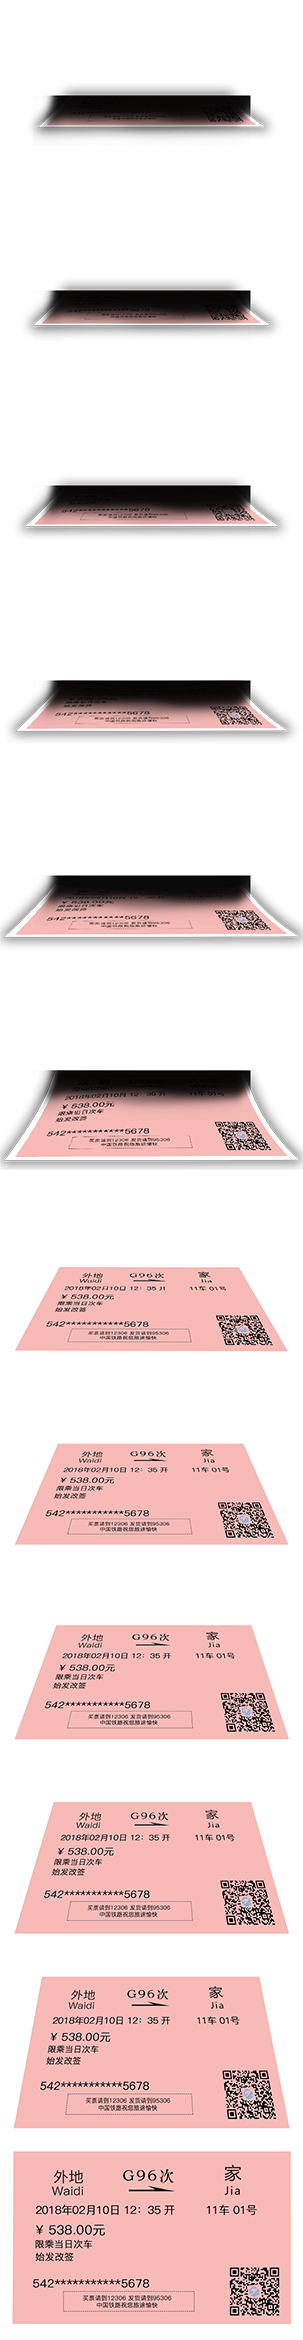
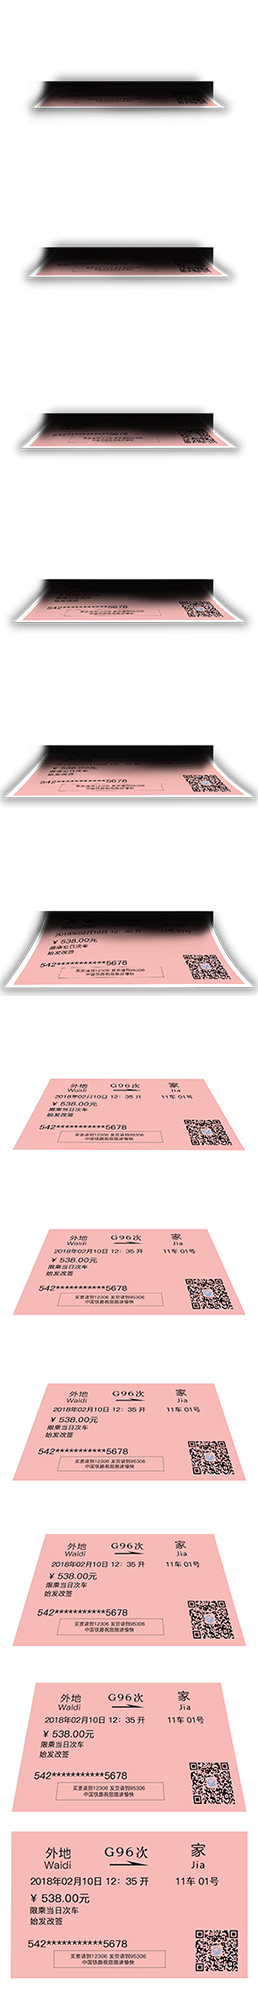
v1.0

diff --git a/dist/spring.js b/dist/spring.js
@@ -1,1 +1,1 @@
-!function(e){function t(r){if(n[r])return n[r].exports;var i=n[r]={i:r,l:!1,exports:{}};return e[r].call(i.exports,i,i.exports,t),i.l=!0,i.exports}var n={};t.m=e,t.c=n,t.d=function(e,n,r){t.o(e,n)||Object.defineProperty(e,n,{configurable:!1,enumerable:!0,get:r})},t.n=function(e){var n=e&&e.__esModule?function(){return e.default}:function(){return e};return t.d(n,"a",n),n},t.o=function(e,t){return Object.prototype.hasOwnProperty.call(e,t)},t.p="",t(t.s=2)}([function(e,t){function n(e,t){var n=e[1]||"",i=e[3];if(!i)return n;if(t&&"function"==typeof btoa){var o=r(i);return[n].concat(i.sources.map(function(e){return"/*# sourceURL="+i.sourceRoot+e+" */"})).concat([o]).join("\n")}return[n].join("\n")}function r(e){return"/*# sourceMappingURL=data:application/json;charset=utf-8;base64,"+btoa(unescape(encodeURIComponent(JSON.stringify(e))))+" */"}e.exports=function(e){var t=[];return t.toString=function(){return this.map(function(t){var r=n(t,e);return t[2]?"@media "+t[2]+"{"+r+"}":r}).join("")},t.i=function(e,n){"string"==typeof e&&(e=[[null,e,""]]);for(var r={},i=0;i<this.length;i++){var o=this[i][0];"number"==typeof o&&(r[o]=!0)}for(i=0;i<e.length;i++){var a=e[i];"number"==typeof a[0]&&r[a[0]]||(n&&!a[2]?a[2]=n:n&&(a[2]="("+a[2]+") and ("+n+")"),t.push(a))}},t}},function(e,t,n){function r(e,t){for(var n=0;n<e.length;n++){var r=e[n],i=h[r.id];if(i){i.refs++;for(var o=0;o<i.parts.length;o++)i.parts[o](r.parts[o]);for(;o<r.parts.length;o++)i.parts.push(d(r.parts[o],t))}else{for(var a=[],o=0;o<r.parts.length;o++)a.push(d(r.parts[o],t));h[r.id]={id:r.id,refs:1,parts:a}}}}function i(e,t){for(var n=[],r={},i=0;i<e.length;i++){var o=e[i],a=t.base?o[0]+t.base:o[0],s=o[1],c=o[2],l=o[3],d={css:s,media:c,sourceMap:l};r[a]?r[a].parts.push(d):n.push(r[a]={id:a,parts:[d]})}return n}function o(e,t){var n=g(e.insertInto);if(!n)throw new Error("Couldn't find a style target. This probably means that the value for the 'insertInto' parameter is invalid.");var r=x[x.length-1];if("top"===e.insertAt)r?r.nextSibling?n.insertBefore(t,r.nextSibling):n.appendChild(t):n.insertBefore(t,n.firstChild),x.push(t);else{if("bottom"!==e.insertAt)throw new Error("Invalid value for parameter 'insertAt'. Must be 'top' or 'bottom'.");n.appendChild(t)}}function a(e){if(null===e.parentNode)return!1;e.parentNode.removeChild(e);var t=x.indexOf(e);t>=0&&x.splice(t,1)}function s(e){var t=document.createElement("style");return e.attrs.type="text/css",l(t,e.attrs),o(e,t),t}function c(e){var t=document.createElement("link");return e.attrs.type="text/css",e.attrs.rel="stylesheet",l(t,e.attrs),o(e,t),t}function l(e,t){Object.keys(t).forEach(function(n){e.setAttribute(n,t[n])})}function d(e,t){var n,r,i,o;if(t.transform&&e.css){if(!(o=t.transform(e.css)))return function(){};e.css=o}if(t.singleton){var l=v++;n=m||(m=s(t)),r=u.bind(null,n,l,!1),i=u.bind(null,n,l,!0)}else e.sourceMap&&"function"==typeof URL&&"function"==typeof URL.createObjectURL&&"function"==typeof URL.revokeObjectURL&&"function"==typeof Blob&&"function"==typeof btoa?(n=c(t),r=p.bind(null,n,t),i=function(){a(n),n.href&&URL.revokeObjectURL(n.href)}):(n=s(t),r=f.bind(null,n),i=function(){a(n)});return r(e),function(t){if(t){if(t.css===e.css&&t.media===e.media&&t.sourceMap===e.sourceMap)return;r(e=t)}else i()}}function u(e,t,n,r){var i=n?"":r.css;if(e.styleSheet)e.styleSheet.cssText=w(t,i);else{var o=document.createTextNode(i),a=e.childNodes;a[t]&&e.removeChild(a[t]),a.length?e.insertBefore(o,a[t]):e.appendChild(o)}}function f(e,t){var n=t.css,r=t.media;if(r&&e.setAttribute("media",r),e.styleSheet)e.styleSheet.cssText=n;else{for(;e.firstChild;)e.removeChild(e.firstChild);e.appendChild(document.createTextNode(n))}}function p(e,t,n){var r=n.css,i=n.sourceMap,o=void 0===t.convertToAbsoluteUrls&&i;(t.convertToAbsoluteUrls||o)&&(r=y(r)),i&&(r+="\n/*# sourceMappingURL=data:application/json;base64,"+btoa(unescape(encodeURIComponent(JSON.stringify(i))))+" */");var a=new Blob([r],{type:"text/css"}),s=e.href;e.href=URL.createObjectURL(a),s&&URL.revokeObjectURL(s)}var h={},b=function(e){var t;return function(){return void 0===t&&(t=e.apply(this,arguments)),t}}(function(){return window&&document&&document.all&&!window.atob}),g=function(e){var t={};return function(n){return void 0===t[n]&&(t[n]=e.call(this,n)),t[n]}}(function(e){return document.querySelector(e)}),m=null,v=0,x=[],y=n(5);e.exports=function(e,t){if("undefined"!=typeof DEBUG&&DEBUG&&"object"!=typeof document)throw new Error("The style-loader cannot be used in a non-browser environment");t=t||{},t.attrs="object"==typeof t.attrs?t.attrs:{},t.singleton||(t.singleton=b()),t.insertInto||(t.insertInto="head"),t.insertAt||(t.insertAt="bottom");var n=i(e,t);return r(n,t),function(e){for(var o=[],a=0;a<n.length;a++){var s=n[a],c=h[s.id];c.refs--,o.push(c)}if(e){r(i(e,t),t)}for(var a=0;a<o.length;a++){var c=o[a];if(0===c.refs){for(var l=0;l<c.parts.length;l++)c.parts[l]();delete h[c.id]}}}};var w=function(){var e=[];return function(t,n){return e[t]=n,e.filter(Boolean).join("\n")}}()},function(e,t,n){n(3),n(6),$("#bgAudioBtn").on("touchstart",function(){var e=$(this);e.toggleClass("on");var t=document.getElementById("bgm");e.hasClass("on")?t.paused&&t.play():t.pause()}),$("#ticketBtn a").on("touchstart",function(){var e=new createjs.Stage(document.getElementById("scene1canvas")),t=new createjs.SpriteSheet({framerate:30,images:["./src/img/spring/tickets.png"],frames:{regX:0,height:185,count:12,regY:0,width:303},animations:{run:[0,11,1.5]}});t.on("complete",function(e){console.log("Complete",e)}),t.on("error",function(e){console.log("Error",e)});var n=new createjs.Sprite(t,"run");n.x=0,n.y=22,e.addChild(n),createjs.Ticker.timingMode=createjs.Ticker.RAF,createjs.Ticker.addEventListener("tick",e)});var r=function(e){function t(e,t){return Math.floor(Math.random()*(t-e)+e)}function n(e){return e*Math.PI/180}function r(){setTimeout(function(){if(c.length<200)for(var e=0;e<20;e++)c.push({left:t(0,800),top:0,deg:t(-10,10),scale:t(2,10)});r()},200*Math.random()+500)}for(var i=document.getElementById(e),o=i.getContext("2d"),a=window.innerWidth,s=window.innerHeight,c=[],l=0;l<100;l++)c.push({left:t(0,800),top:t(0,600),deg:t(-10,10),scale:t(2,10)});setInterval(function(){o.clearRect(0,0,i.width,i.height),o.save();for(var e=0;e<c.length;e++){var t=.5*c[e].scale;if(c[e].left=c[e].left+Math.tan(n(c[e].deg))*t,c[e].top=c[e].top+t,c[e].left<0||c[e].left>a||c[e].top>s)c.splice(e--,1);else{var r=c[e].scale,l=o.createRadialGradient(c[e].left,c[e].top,r/4,c[e].left,c[e].top,r);l.addColorStop(0,"rgba(255,255,255,1)"),l.addColorStop(1,"rgba(255,255,255,0.1)"),o.fillStyle=l,o.beginPath(),o.arc(c[e].left,c[e].top,r,0,2*Math.PI),o.fill()}}o.restore()},50),r()};window.app=window.app||{},app.initScene1=function(){r("snowCanvas"),$("#snowCanvas").css("background-image","url(./src/img/spring/scene1.jpg)"),$("#scene1canvas").css("background-image","url(./src/img/spring/scene1Ticket.png)")}},function(e,t,n){var r=n(4);"string"==typeof r&&(r=[[e.i,r,""]]);var i={minimize:!0};i.transform=void 0;n(1)(r,i);r.locals&&(e.exports=r.locals)},function(e,t,n){t=e.exports=n(0)(!1),t.push([e.i,'*{-webkit-box-sizing:border-box;-moz-box-sizing:border-box;box-sizing:border-box}html{-webkit-tap-highlight-color:transparent;-ms-text-size-adjust:100%;-webkit-text-size-adjust:100%;height:100%}::-webkit-input-placeholder{font-family:-apple-system-font,Helvetica Neue,sans-serif}a,abbr,acronym,address,applet,article,aside,audio,b,big,blockquote,body,canvas,caption,center,cite,code,dd,del,details,dfn,div,dl,dt,em,embed,fieldset,figcaption,figure,footer,form,h1,h2,h3,h4,h5,h6,header,hgroup,html,i,iframe,img,ins,kbd,label,legend,li,mark,menu,nav,object,ol,output,p,pre,q,ruby,s,samp,section,small,span,strike,strong,sub,summary,sup,table,tbody,td,tfoot,th,thead,time,tr,tt,u,ul,var,video{margin:0;padding:0;border:none;font-size:100%}body{height:100%;line-height:1.6;overflow-x:hidden;max-width:768px;font-family:-apple-system-font,Helvetica Neue,sans-serif}@media screen and (min-width:768px){body{margin:0 auto}}body iframe{display:none}article,aside,details,figcaption,figure,footer,header,hgroup,menu,nav,section{display:block}audio,canvas,video{display:inline-block;*display:inline;*zoom:1}a{text-decoration:none;cursor:pointer;-webkit-touch-callout:none}ol,ul{list-style:none}img{border:0;vertical-align:middle;max-width:100%}h1,h2,h3,h4,h5,h6{font-weight:300}table{border-collapse:collapse;border-spacing:0}input,textarea{-webkit-appearance:none;border-radius:0;border:1px solid #dcdcdc}input:focus,textarea:focus{outline:none}p{word-wrap:break-word;word-break:break-all}.clearfix:after{clear:both;content:"";display:block;height:0;visibility:hidden}.clearfix{*zoom:1}.fr{float:right}.fl{float:left}.hidden{visibility:hidden}.hide{display:none}.img-circle{border-radius:50%}.ellipsis{overflow:hidden;white-space:nowrap;text-overflow:ellipsis}.btn{display:inline-block;vertical-align:middle;text-align:center}',""])},function(e,t){e.exports=function(e){var t="undefined"!=typeof window&&window.location;if(!t)throw new Error("fixUrls requires window.location");if(!e||"string"!=typeof e)return e;var n=t.protocol+"//"+t.host,r=n+t.pathname.replace(/\/[^\/]*$/,"/");return e.replace(/url\s*\(((?:[^)(]|\((?:[^)(]+|\([^)(]*\))*\))*)\)/gi,function(e,t){var i=t.trim().replace(/^"(.*)"$/,function(e,t){return t}).replace(/^'(.*)'$/,function(e,t){return t});if(/^(#|data:|http:\/\/|https:\/\/|file:\/\/\/)/i.test(i))return e;var o;return o=0===i.indexOf("//")?i:0===i.indexOf("/")?n+i:r+i.replace(/^\.\//,""),"url("+JSON.stringify(o)+")"})}},function(e,t,n){var r=n(7);"string"==typeof r&&(r=[[e.i,r,""]]);var i={minimize:!0};i.transform=void 0;n(1)(r,i);r.locals&&(e.exports=r.locals)},function(e,t,n){var r=n(8);t=e.exports=n(0)(!1),t.push([e.i,".scene{-webkit-transition:all .45s linear;transition:all .45s linear;position:absolute;top:0;left:0;bottom:0;right:0;overflow:hidden;-webkit-transform:translate(100%);transform:translate(100%)}.scene.cur{-webkit-transform:translate(0);transform:translate(0)}.scene.isHide{-webkit-transform:translate(-100%);transform:translate(-100%)}.scene1 #scene1canvas,.scene1 #snowCanvas{background-repeat:no-repeat;background-position:0 100%;background-size:100%}.scene1 .content{position:absolute;z-index:1;top:50%;left:50%;-webkit-transform:translate(-50%,-50%);transform:translate(-50%,-50%);text-align:center}#scene1canvas{margin-bottom:30px}#ticketBtn{position:relative;display:inline-block}#ticketBtn a{line-height:44px;background:#085a94;color:#fff;border-radius:50%;font-size:18px;border:6px solid #5896e5;position:relative;z-index:1;margin:0 auto}#ticketBtn a,.circles{width:58px;height:58px}.circles{position:absolute;animation:a1 1.5s linear infinite;-webkit-animation:a1 1.5s linear infinite}.circles>div{border-radius:50%;width:58px;height:58px;background:#5896e5;padding:2px}.circles>div>div{border-radius:50%;width:54px;height:54px;background:#fff;padding:2px}.circles>div>div>div{width:50px;height:50px;background:#5896e5;padding:2px;border-radius:50%}.circles>div>div>div>div{width:46px;height:46px;background:#fff;padding:2px;border-radius:50%}.circles>div>div>div>div>div{width:42px;height:42px;background:#5896e5;border-radius:50%}@keyframes a1{0%{transform:scale(1);opacity:1}to{transform:scale(1.5);opacity:0}}@-webkit-keyframes a1{0%{transform:scale(1);opacity:1}to{transform:scale(1.5);opacity:0}}.scene2{background:url("+r(n(12))+") no-repeat left bottom 100%;background-size:100%}",""])},function(e,t){e.exports=function(e){return"string"!=typeof e?e:(/^['"].*['"]$/.test(e)&&(e=e.slice(1,-1)),/["'() \t\n]/.test(e)?'"'+e.replace(/"/g,'\\"').replace(/\n/g,"\\n")+'"':e)}},,,,function(e,t){e.exports="/h5/dist/img/scene2.jpg"}]);
+!function(e){function t(r){if(n[r])return n[r].exports;var i=n[r]={i:r,l:!1,exports:{}};return e[r].call(i.exports,i,i.exports,t),i.l=!0,i.exports}var n={};t.m=e,t.c=n,t.d=function(e,n,r){t.o(e,n)||Object.defineProperty(e,n,{configurable:!1,enumerable:!0,get:r})},t.n=function(e){var n=e&&e.__esModule?function(){return e.default}:function(){return e};return t.d(n,"a",n),n},t.o=function(e,t){return Object.prototype.hasOwnProperty.call(e,t)},t.p="",t(t.s=2)}([function(e,t){function n(e,t){var n=e[1]||"",i=e[3];if(!i)return n;if(t&&"function"==typeof btoa){var o=r(i);return[n].concat(i.sources.map(function(e){return"/*# sourceURL="+i.sourceRoot+e+" */"})).concat([o]).join("\n")}return[n].join("\n")}function r(e){return"/*# sourceMappingURL=data:application/json;charset=utf-8;base64,"+btoa(unescape(encodeURIComponent(JSON.stringify(e))))+" */"}e.exports=function(e){var t=[];return t.toString=function(){return this.map(function(t){var r=n(t,e);return t[2]?"@media "+t[2]+"{"+r+"}":r}).join("")},t.i=function(e,n){"string"==typeof e&&(e=[[null,e,""]]);for(var r={},i=0;i<this.length;i++){var o=this[i][0];"number"==typeof o&&(r[o]=!0)}for(i=0;i<e.length;i++){var a=e[i];"number"==typeof a[0]&&r[a[0]]||(n&&!a[2]?a[2]=n:n&&(a[2]="("+a[2]+") and ("+n+")"),t.push(a))}},t}},function(e,t,n){function r(e,t){for(var n=0;n<e.length;n++){var r=e[n],i=h[r.id];if(i){i.refs++;for(var o=0;o<i.parts.length;o++)i.parts[o](r.parts[o]);for(;o<r.parts.length;o++)i.parts.push(d(r.parts[o],t))}else{for(var a=[],o=0;o<r.parts.length;o++)a.push(d(r.parts[o],t));h[r.id]={id:r.id,refs:1,parts:a}}}}function i(e,t){for(var n=[],r={},i=0;i<e.length;i++){var o=e[i],a=t.base?o[0]+t.base:o[0],s=o[1],c=o[2],l=o[3],d={css:s,media:c,sourceMap:l};r[a]?r[a].parts.push(d):n.push(r[a]={id:a,parts:[d]})}return n}function o(e,t){var n=g(e.insertInto);if(!n)throw new Error("Couldn't find a style target. This probably means that the value for the 'insertInto' parameter is invalid.");var r=x[x.length-1];if("top"===e.insertAt)r?r.nextSibling?n.insertBefore(t,r.nextSibling):n.appendChild(t):n.insertBefore(t,n.firstChild),x.push(t);else{if("bottom"!==e.insertAt)throw new Error("Invalid value for parameter 'insertAt'. Must be 'top' or 'bottom'.");n.appendChild(t)}}function a(e){if(null===e.parentNode)return!1;e.parentNode.removeChild(e);var t=x.indexOf(e);t>=0&&x.splice(t,1)}function s(e){var t=document.createElement("style");return e.attrs.type="text/css",l(t,e.attrs),o(e,t),t}function c(e){var t=document.createElement("link");return e.attrs.type="text/css",e.attrs.rel="stylesheet",l(t,e.attrs),o(e,t),t}function l(e,t){Object.keys(t).forEach(function(n){e.setAttribute(n,t[n])})}function d(e,t){var n,r,i,o;if(t.transform&&e.css){if(!(o=t.transform(e.css)))return function(){};e.css=o}if(t.singleton){var l=v++;n=m||(m=s(t)),r=u.bind(null,n,l,!1),i=u.bind(null,n,l,!0)}else e.sourceMap&&"function"==typeof URL&&"function"==typeof URL.createObjectURL&&"function"==typeof URL.revokeObjectURL&&"function"==typeof Blob&&"function"==typeof btoa?(n=c(t),r=p.bind(null,n,t),i=function(){a(n),n.href&&URL.revokeObjectURL(n.href)}):(n=s(t),r=f.bind(null,n),i=function(){a(n)});return r(e),function(t){if(t){if(t.css===e.css&&t.media===e.media&&t.sourceMap===e.sourceMap)return;r(e=t)}else i()}}function u(e,t,n,r){var i=n?"":r.css;if(e.styleSheet)e.styleSheet.cssText=w(t,i);else{var o=document.createTextNode(i),a=e.childNodes;a[t]&&e.removeChild(a[t]),a.length?e.insertBefore(o,a[t]):e.appendChild(o)}}function f(e,t){var n=t.css,r=t.media;if(r&&e.setAttribute("media",r),e.styleSheet)e.styleSheet.cssText=n;else{for(;e.firstChild;)e.removeChild(e.firstChild);e.appendChild(document.createTextNode(n))}}function p(e,t,n){var r=n.css,i=n.sourceMap,o=void 0===t.convertToAbsoluteUrls&&i;(t.convertToAbsoluteUrls||o)&&(r=y(r)),i&&(r+="\n/*# sourceMappingURL=data:application/json;base64,"+btoa(unescape(encodeURIComponent(JSON.stringify(i))))+" */");var a=new Blob([r],{type:"text/css"}),s=e.href;e.href=URL.createObjectURL(a),s&&URL.revokeObjectURL(s)}var h={},b=function(e){var t;return function(){return void 0===t&&(t=e.apply(this,arguments)),t}}(function(){return window&&document&&document.all&&!window.atob}),g=function(e){var t={};return function(n){return void 0===t[n]&&(t[n]=e.call(this,n)),t[n]}}(function(e){return document.querySelector(e)}),m=null,v=0,x=[],y=n(5);e.exports=function(e,t){if("undefined"!=typeof DEBUG&&DEBUG&&"object"!=typeof document)throw new Error("The style-loader cannot be used in a non-browser environment");t=t||{},t.attrs="object"==typeof t.attrs?t.attrs:{},t.singleton||(t.singleton=b()),t.insertInto||(t.insertInto="head"),t.insertAt||(t.insertAt="bottom");var n=i(e,t);return r(n,t),function(e){for(var o=[],a=0;a<n.length;a++){var s=n[a],c=h[s.id];c.refs--,o.push(c)}if(e){r(i(e,t),t)}for(var a=0;a<o.length;a++){var c=o[a];if(0===c.refs){for(var l=0;l<c.parts.length;l++)c.parts[l]();delete h[c.id]}}}};var w=function(){var e=[];return function(t,n){return e[t]=n,e.filter(Boolean).join("\n")}}()},function(e,t,n){n(3),n(6),$("#bgAudioBtn").on("touchstart",function(){var e=$(this);e.toggleClass("on");var t=document.getElementById("bgm");e.hasClass("on")?t.paused&&t.play():t.pause()}),$("#ticketBtn a").on("touchstart",function(){}),getTicket=function(){var e=document.getElementById("scene1canvas"),t=new createjs.Stage(e),n=new createjs.SpriteSheet({framerate:9,images:[loader.getResult("tickets")],frames:{regX:129,height:166,count:12,regY:0,width:258},animations:{run:[0,11]}});n.on("complete",function(e){console.log("Complete",e)}),n.on("error",function(e){});var r=new createjs.Sprite(n,"run");r.x=t.canvas.width/2,r.y=160,t.addChild(r),createjs.Ticker.timingMode=createjs.Ticker.RAF_SYNCHED,createjs.Ticker.addEventListener("tick",t)};var r=function(e){function t(e,t){return Math.floor(Math.random()*(t-e)+e)}function n(e){return e*Math.PI/180}function r(){setTimeout(function(){if(c.length<200)for(var e=0;e<20;e++)c.push({left:t(0,800),top:0,deg:t(-10,10),scale:t(2,10)});r()},200*Math.random()+500)}for(var i=document.getElementById(e),o=i.getContext("2d"),a=window.innerWidth,s=window.innerHeight,c=[],l=0;l<100;l++)c.push({left:t(0,800),top:t(0,600),deg:t(-10,10),scale:t(2,10)});setInterval(function(){o.clearRect(0,0,i.width,i.height),o.save();for(var e=0;e<c.length;e++){var t=.5*c[e].scale;if(c[e].left=c[e].left+Math.tan(n(c[e].deg))*t,c[e].top=c[e].top+t,c[e].left<0||c[e].left>a||c[e].top>s)c.splice(e--,1);else{var r=c[e].scale,l=o.createRadialGradient(c[e].left,c[e].top,r/4,c[e].left,c[e].top,r);l.addColorStop(0,"rgba(255,255,255,1)"),l.addColorStop(1,"rgba(255,255,255,0.1)"),o.fillStyle=l,o.beginPath(),o.arc(c[e].left,c[e].top,r,0,2*Math.PI),o.fill()}}o.restore()},50),r()};window.app=window.app||{},app.initScene1=function(){r("snowCanvas"),$("#snowCanvas").css("background-image","url(./src/img/spring/scene1.jpg)"),$("#scene1canvas").css("background-image","url(./src/img/spring/scene1Ticket.png)")}},function(e,t,n){var r=n(4);"string"==typeof r&&(r=[[e.i,r,""]]);var i={minimize:!0};i.transform=void 0;n(1)(r,i);r.locals&&(e.exports=r.locals)},function(e,t,n){t=e.exports=n(0)(!1),t.push([e.i,'*{-webkit-box-sizing:border-box;-moz-box-sizing:border-box;box-sizing:border-box}html{-webkit-tap-highlight-color:transparent;-ms-text-size-adjust:100%;-webkit-text-size-adjust:100%;height:100%}::-webkit-input-placeholder{font-family:-apple-system-font,Helvetica Neue,sans-serif}a,abbr,acronym,address,applet,article,aside,audio,b,big,blockquote,body,canvas,caption,center,cite,code,dd,del,details,dfn,div,dl,dt,em,embed,fieldset,figcaption,figure,footer,form,h1,h2,h3,h4,h5,h6,header,hgroup,html,i,iframe,img,ins,kbd,label,legend,li,mark,menu,nav,object,ol,output,p,pre,q,ruby,s,samp,section,small,span,strike,strong,sub,summary,sup,table,tbody,td,tfoot,th,thead,time,tr,tt,u,ul,var,video{margin:0;padding:0;border:none;font-size:100%}body{height:100%;line-height:1.6;overflow-x:hidden;max-width:768px;font-family:-apple-system-font,Helvetica Neue,sans-serif}@media screen and (min-width:768px){body{margin:0 auto}}body iframe{display:none}article,aside,details,figcaption,figure,footer,header,hgroup,menu,nav,section{display:block}audio,canvas,video{display:inline-block;*display:inline;*zoom:1}a{text-decoration:none;cursor:pointer;-webkit-touch-callout:none}ol,ul{list-style:none}img{border:0;vertical-align:middle;max-width:100%}h1,h2,h3,h4,h5,h6{font-weight:300}table{border-collapse:collapse;border-spacing:0}input,textarea{-webkit-appearance:none;border-radius:0;border:1px solid #dcdcdc}input:focus,textarea:focus{outline:none}p{word-wrap:break-word;word-break:break-all}.clearfix:after{clear:both;content:"";display:block;height:0;visibility:hidden}.clearfix{*zoom:1}.fr{float:right}.fl{float:left}.hidden{visibility:hidden}.hide{display:none}.img-circle{border-radius:50%}.ellipsis{overflow:hidden;white-space:nowrap;text-overflow:ellipsis}.btn{display:inline-block;vertical-align:middle;text-align:center}',""])},function(e,t){e.exports=function(e){var t="undefined"!=typeof window&&window.location;if(!t)throw new Error("fixUrls requires window.location");if(!e||"string"!=typeof e)return e;var n=t.protocol+"//"+t.host,r=n+t.pathname.replace(/\/[^\/]*$/,"/");return e.replace(/url\s*\(((?:[^)(]|\((?:[^)(]+|\([^)(]*\))*\))*)\)/gi,function(e,t){var i=t.trim().replace(/^"(.*)"$/,function(e,t){return t}).replace(/^'(.*)'$/,function(e,t){return t});if(/^(#|data:|http:\/\/|https:\/\/|file:\/\/\/)/i.test(i))return e;var o;return o=0===i.indexOf("//")?i:0===i.indexOf("/")?n+i:r+i.replace(/^\.\//,""),"url("+JSON.stringify(o)+")"})}},function(e,t,n){var r=n(7);"string"==typeof r&&(r=[[e.i,r,""]]);var i={minimize:!0};i.transform=void 0;n(1)(r,i);r.locals&&(e.exports=r.locals)},function(e,t,n){var r=n(8);t=e.exports=n(0)(!1),t.push([e.i,".scene{-webkit-transition:all .45s linear;transition:all .45s linear;position:absolute;top:0;left:0;bottom:0;right:0;overflow:hidden;-webkit-transform:translate(100%);transform:translate(100%)}.scene.cur{-webkit-transform:translate(0);transform:translate(0)}.scene.isHide{-webkit-transform:translate(-100%);transform:translate(-100%)}.scene1 #scene1canvas,.scene1 #snowCanvas{background-repeat:no-repeat;background-position:0 100%;background-size:100%}.scene1 .content{position:absolute;z-index:1;top:50%;left:50%;-webkit-transform:translate(-50%,-50%);transform:translate(-50%,-50%);text-align:center}#scene1canvas{margin-bottom:30px}#ticketBtn{position:relative;display:inline-block}#ticketBtn a{line-height:44px;background:#085a94;color:#fff;border-radius:50%;font-size:18px;border:6px solid #5896e5;position:relative;z-index:1;margin:0 auto}#ticketBtn a,.circles{width:58px;height:58px}.circles{position:absolute;animation:a1 1.5s linear infinite;-webkit-animation:a1 1.5s linear infinite}.circles>div{border-radius:50%;width:58px;height:58px;background:#5896e5;padding:2px}.circles>div>div{border-radius:50%;width:54px;height:54px;background:#fff;padding:2px}.circles>div>div>div{width:50px;height:50px;background:#5896e5;padding:2px;border-radius:50%}.circles>div>div>div>div{width:46px;height:46px;background:#fff;padding:2px;border-radius:50%}.circles>div>div>div>div>div{width:42px;height:42px;background:#5896e5;border-radius:50%}@keyframes a1{0%{transform:scale(1);opacity:1}to{transform:scale(1.5);opacity:0}}@-webkit-keyframes a1{0%{transform:scale(1);opacity:1}to{transform:scale(1.5);opacity:0}}.scene2{background:url("+r(n(12))+") no-repeat left bottom 100%;background-size:100%}",""])},function(e,t){e.exports=function(e){return"string"!=typeof e?e:(/^['"].*['"]$/.test(e)&&(e=e.slice(1,-1)),/["'() \t\n]/.test(e)?'"'+e.replace(/"/g,'\\"').replace(/\n/g,"\\n")+'"':e)}},,,,function(e,t){e.exports="/h5/dist/img/scene2.jpg"}]);

diff --git a/src/js/spring.js b/src/js/spring.js
@@ -16,16 +16,23 @@ $("#ticketBtn a").on("touchstart", function(){
 	//$(".scene2").addClass("cur");
 	
 	//出票
-	var stage = new createjs.Stage(document.getElementById("scene1canvas"));
+	//getTicket();
+	
+});
+
+//出票
+getTicket = function(){
+	var canvas = document.getElementById("scene1canvas");
+	var stage = new createjs.Stage(canvas);
 
 	var spriteSheet = new createjs.SpriteSheet({
 		//帧率
-		framerate: 30,
+		framerate: 9,
 		//图片地址
-		"images": ["./src/img/spring/tickets.png"],
-		"frames": {"regX": 0, "height": 185, "count": 12, "regY": 0, "width": 303},
+		"images": [loader.getResult("tickets")],
+		"frames": {"regX": 129, "height": 166, "count": 12, "regY": 0, "width": 258},
 		"animations": {
-			"run": [0, 11, 1.5],
+			"run": [0, 11],
 		}
 	});
 
@@ -33,18 +40,17 @@ $("#ticketBtn a").on("touchstart", function(){
 		console.log("Complete", event);
 	});
 	spriteSheet.on("error", function(event) {
-		console.log("Error", event);
+		
 	});
 
 	var grant = new createjs.Sprite(spriteSheet, "run");
-	grant.x = 0;
-	grant.y = 22;
+	grant.x = stage.canvas.width / 2;
+	grant.y = 160;
 
 	stage.addChild(grant);
-	createjs.Ticker.timingMode = createjs.Ticker.RAF;
+	createjs.Ticker.timingMode = createjs.Ticker.RAF_SYNCHED;
 	createjs.Ticker.addEventListener("tick", stage);
-	
-});
+}
 
 var initSnowCanvas = function(id){
 	function rnd(n, m){

diff --git a/spring.html b/spring.html
@@ -117,18 +117,17 @@
 	
 <script type="text/javascript" src="./src/js/jquery.js"></script>	
 <script type="text/javascript" src="./src/js/createjs-2015.11.26.min.js"></script>
-<script type="text/javascript" src="./dist/spring.js"></script>
 <script>
-
+var loader;
 var preLoadRes = function(){
-	var loader = new createjs.LoadQueue();
+	loader = new createjs.LoadQueue();
 	loader.installPlugin(createjs.Sound);
 	loader.on("fileload", handleFileComplete);
 	loader.on("progress", handleProgress);
 	loader.on("complete", handleAllComplete);
 	loader.loadFile({id: "bgm", src: "./src/file/bgm.mp3"});
 	var manifest = [
-		{id: "section1", src: "./src/img/spring/scene1.jpg"}
+		{id: "scene1", src: "./src/img/spring/scene1.jpg"}
 		,{id: "scene1Ticket", src: "./src/img/spring/scene1Ticket.png"}
 		,{id: "tickets", src: "./src/img/spring/tickets.png"}
 		,{id: "section2", src: "./src/img/spring/scene2.jpg"}
@@ -158,5 +157,6 @@ var handleProgress = function(evt){
 preLoadRes();
 
 </script>
+<script type="text/javascript" src="./dist/spring.js"></script>
 </body>
 </html>
